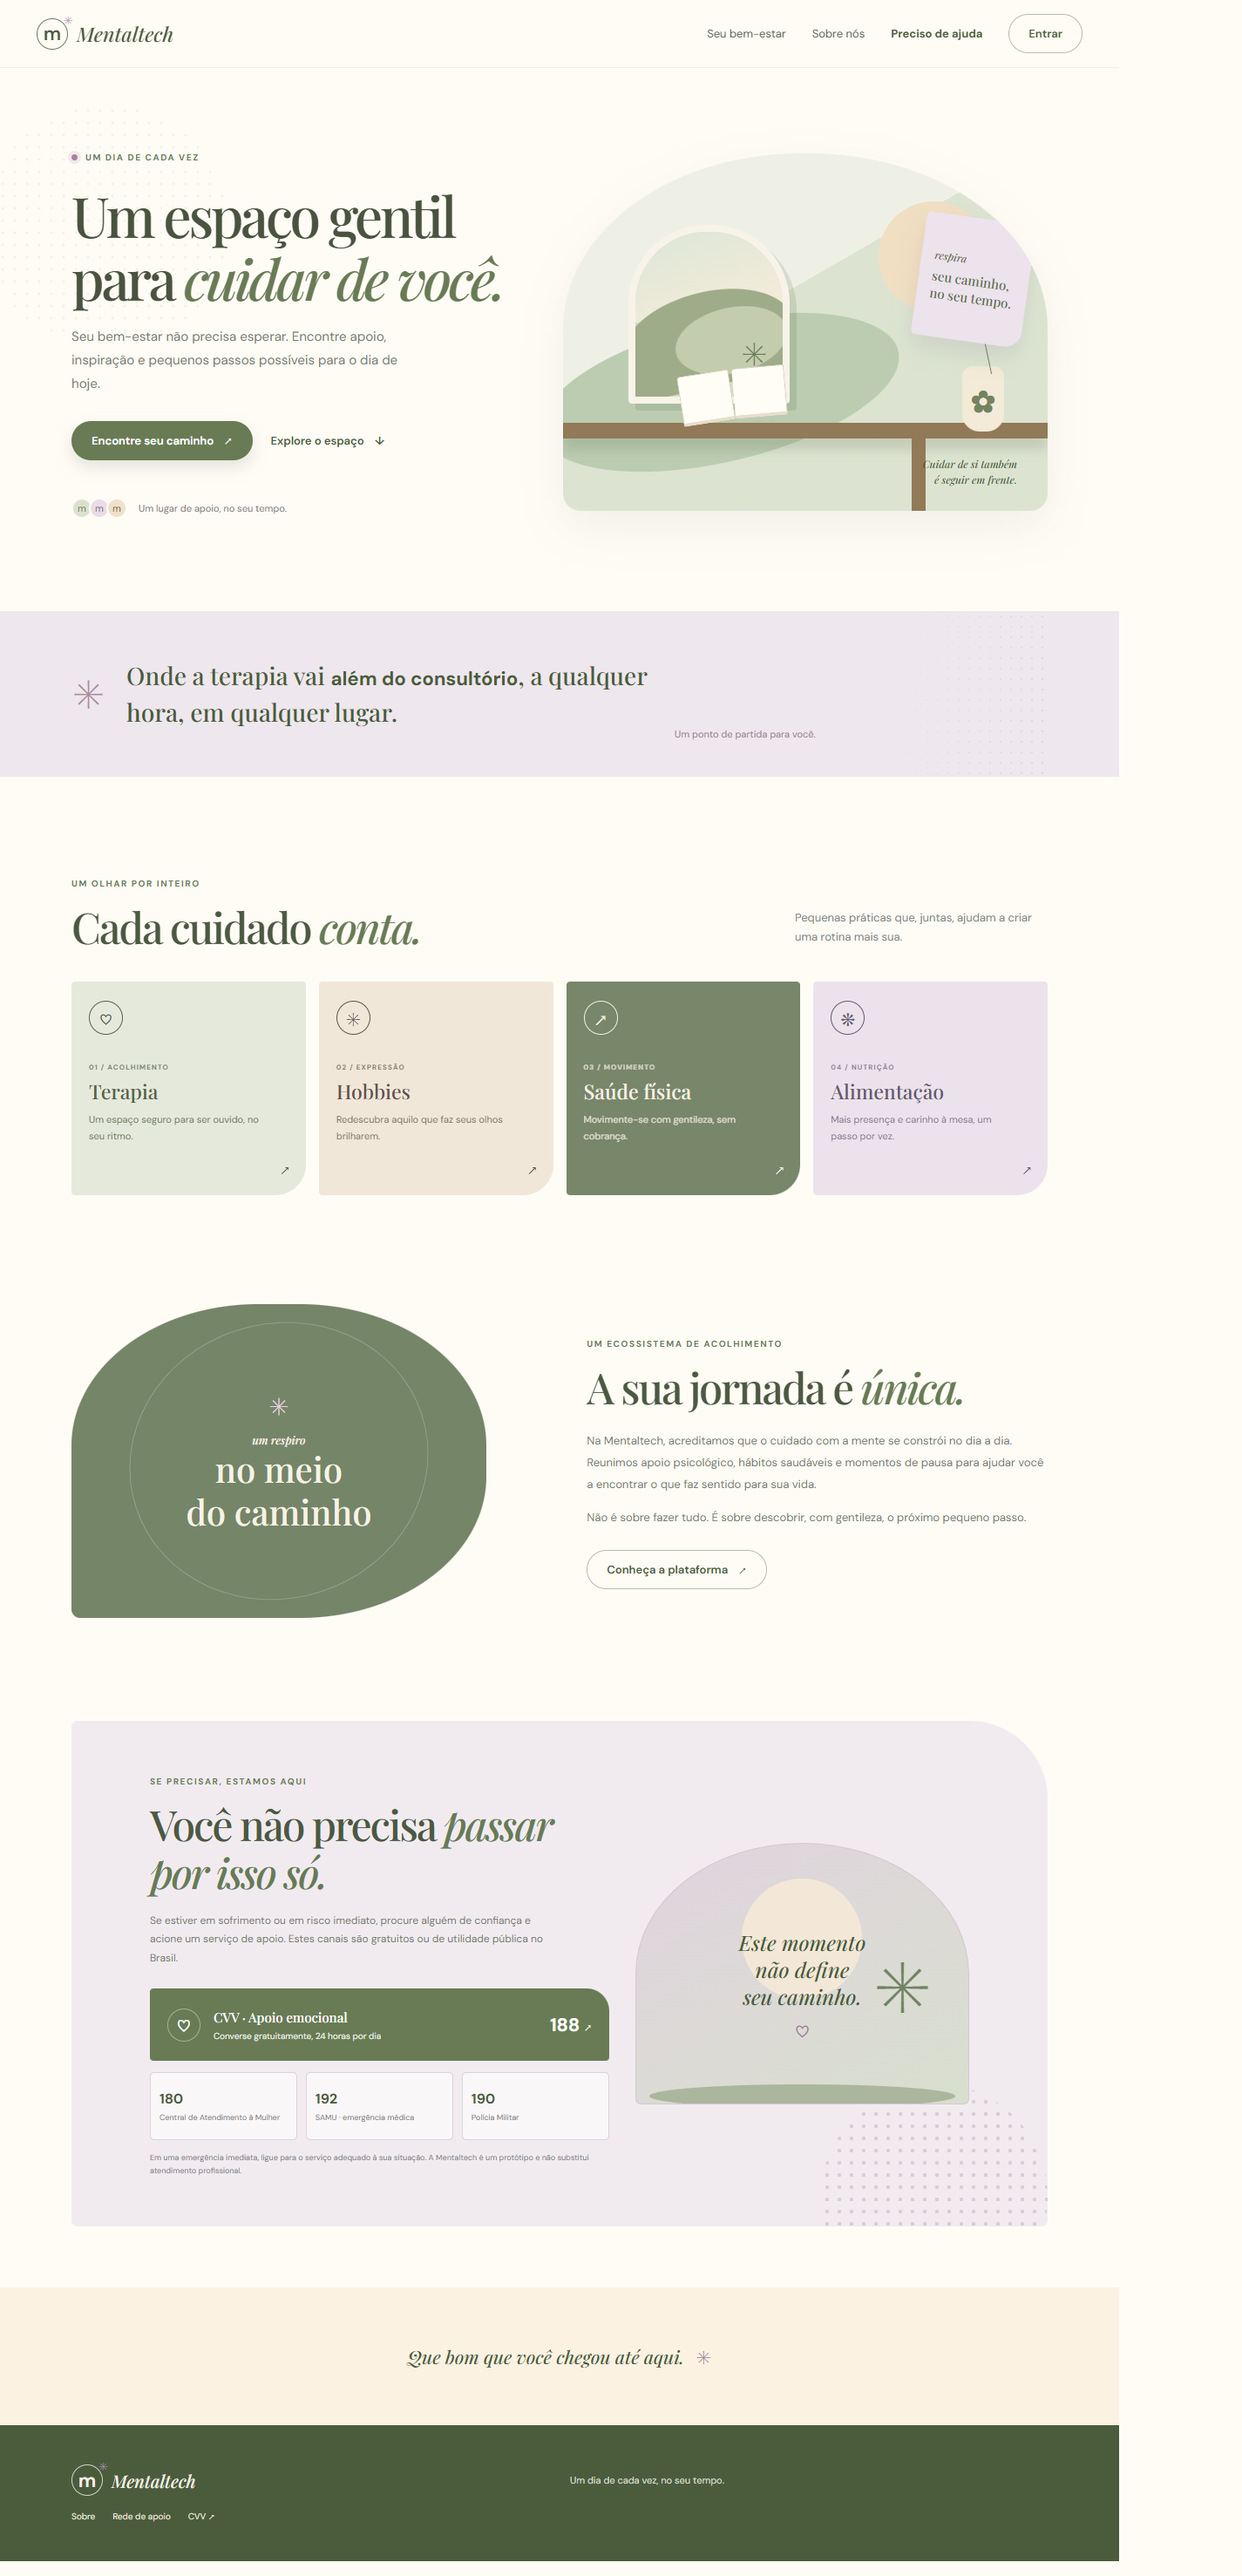
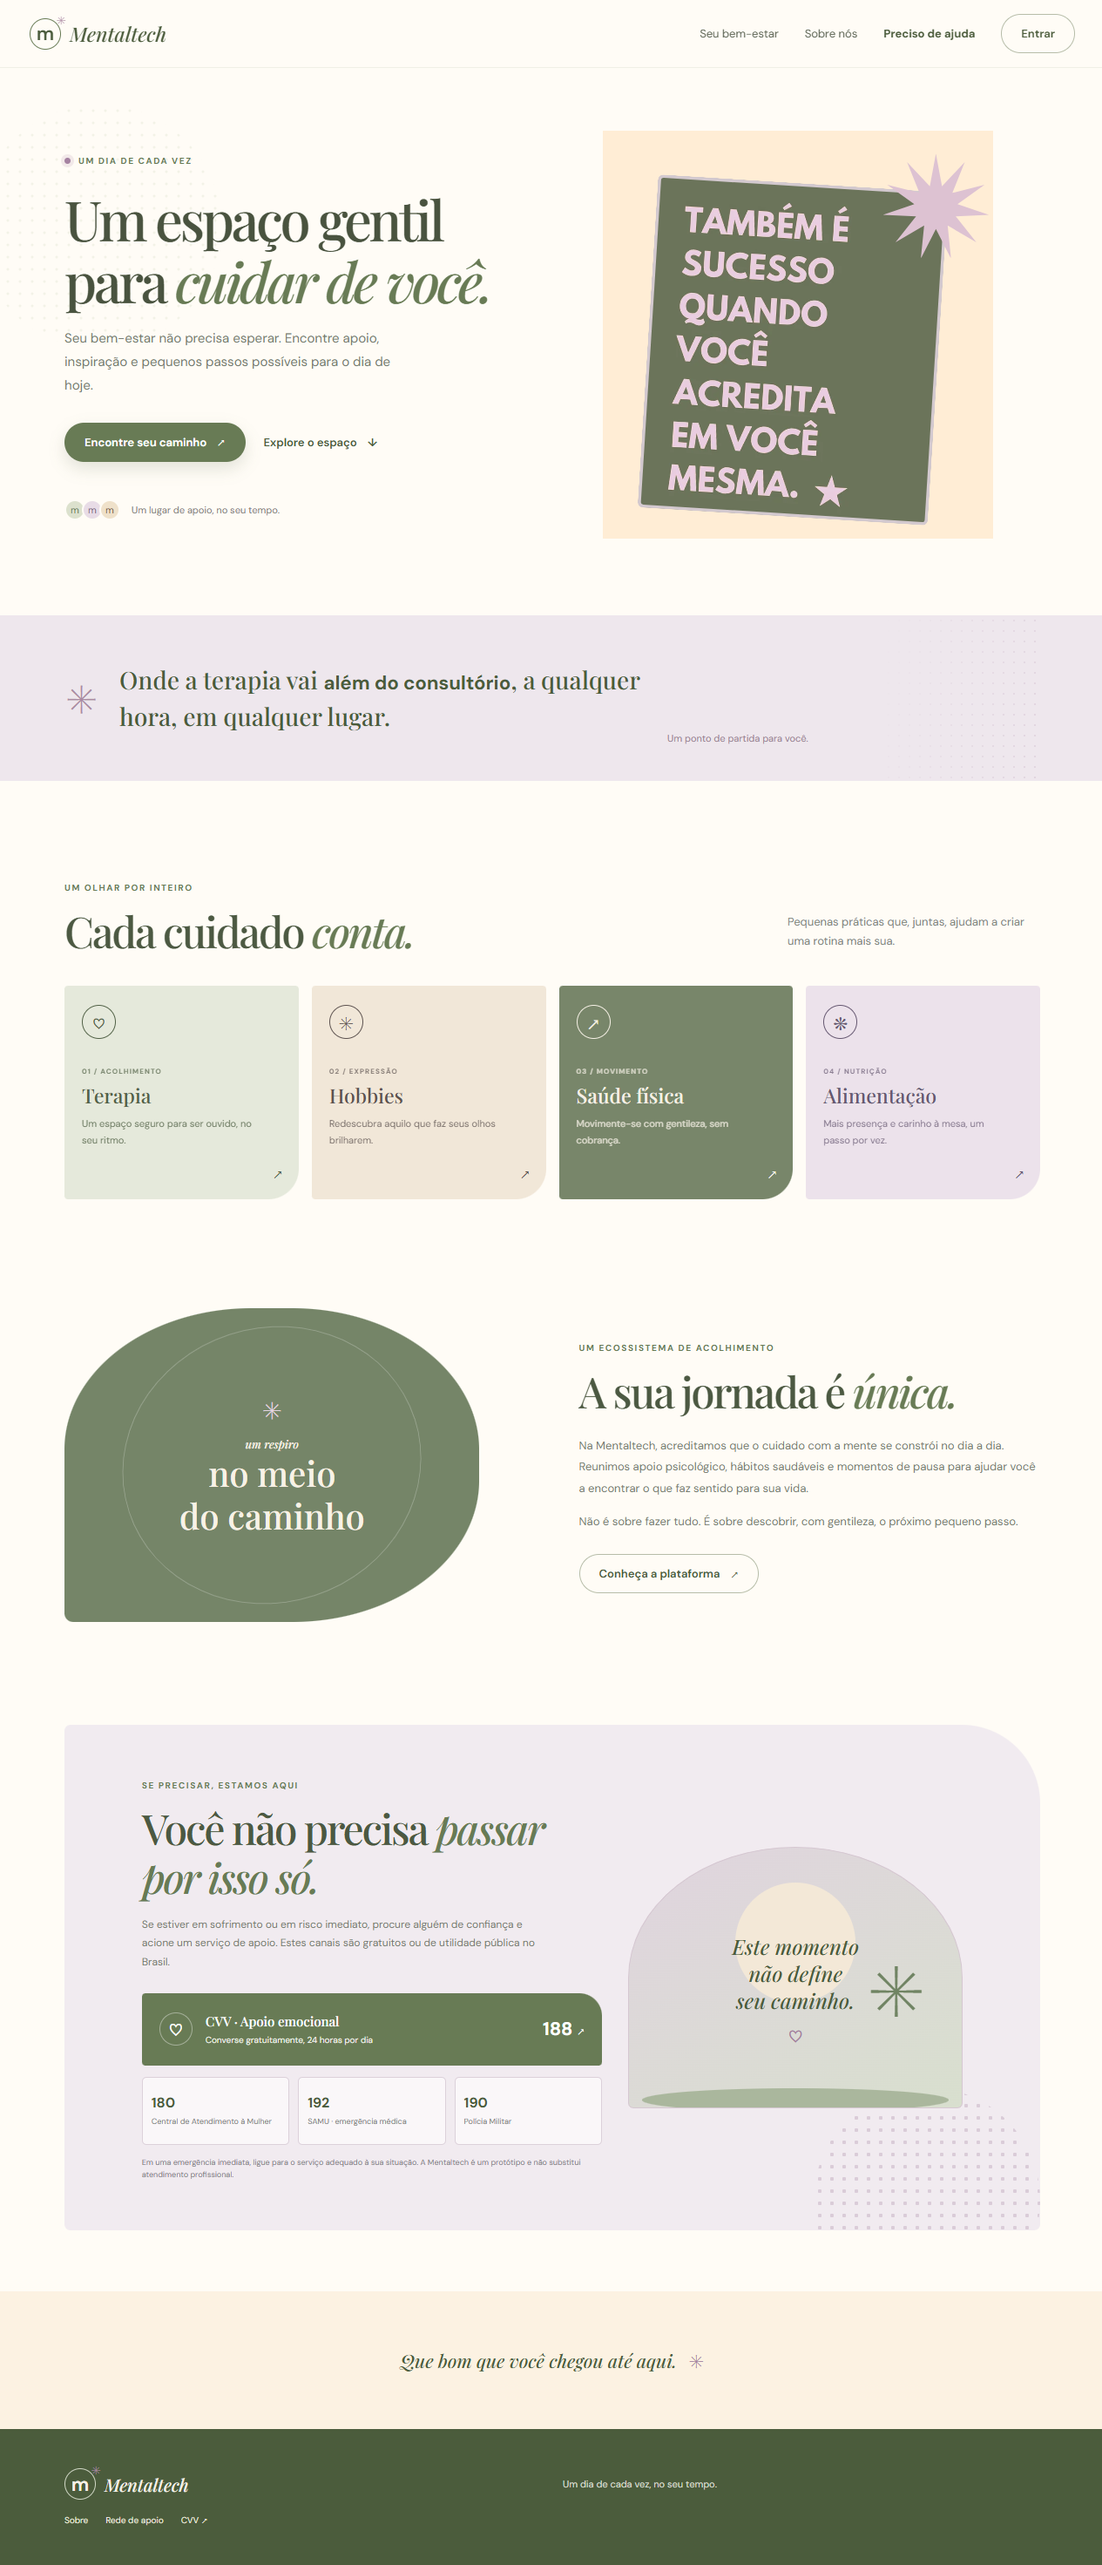
Replace home illustration with supplied artwork

diff --git a/styles.css b/styles.css
@@ -62,27 +62,8 @@ h1 em, h2 em { color: var(--olive); font-weight: 500; }
 .note-avatars i { display: grid; width: 24px; height: 24px; margin-left: -4px; place-items: center; border: 2px solid var(--paper); border-radius: 50%; color: var(--olive); background: var(--sage); font-size: 11px; font-style: normal; }
 .note-avatars i:nth-child(2) { color: #83697e; background: #e8dce6; }
 .note-avatars i:nth-child(3) { color: #776145; background: #efe1ca; }
-.hero-art { position: relative; min-height: 410px; overflow: hidden; border-radius: 49% 49% 20px 20px; background: linear-gradient(150deg, #eff0e5 0 42%, #dce4d1 42% 100%); box-shadow: 0 18px 50px #52614715; }
-.art-sun { position: absolute; top: 55px; right: 68px; width: 126px; height: 126px; border-radius: 50%; background: #f0dfc2; }
-.art-shadow { position: absolute; bottom: 56px; left: -30px; width: 420px; height: 160px; border-radius: 50%; background: #bbccb0; transform: rotate(-13deg); }
-.art-window { position: absolute; top: 82px; left: 75px; width: 185px; height: 205px; overflow: hidden; border: 8px solid #f7f3e8; border-radius: 90px 90px 4px 4px; background: #d3ddc9; box-shadow: 8px 8px 0 rgb(76 95 63 / 15%); }
-.window-sky { position: absolute; inset: 0 0 45%; background: linear-gradient(160deg, #dce6d7, #f8edda); }
-.window-hill { position: absolute; right: -14px; bottom: 12px; left: -16px; height: 108px; border-radius: 55% 52% 0 0; background: #9eac89; transform: rotate(-13deg); }
-.window-hill::after { position: absolute; top: 24px; left: 60px; width: 130px; height: 75px; border-radius: 50%; background: #c3ccad; content: ""; }
-.window-plant { position: absolute; right: 17px; bottom: 25px; color: #697d58; font-size: 36px; }
-.art-table { position: absolute; right: 0; bottom: 83px; left: 0; height: 18px; background: #927957; box-shadow: 0 12px 14px #4f584333; }
-.art-table::after { position: absolute; top: 17px; left: 72%; width: 16px; height: 97px; background: #927957; content: ""; }
-.art-book { position: absolute; bottom: 101px; left: 134px; display: flex; width: 120px; height: 62px; align-items: flex-start; transform: rotate(-9deg); }
-.art-book span { width: 50%; height: 58px; border: 1px solid #d5ccb8; border-bottom: 4px solid #e8decc; border-radius: 4px 2px 2px 2px; background: #fffdf6; }
-.art-book span + span { border-left: 0; transform: rotate(4deg); transform-origin: bottom left; }
-.art-vase { position: absolute; right: 50px; bottom: 91px; display: flex; width: 48px; height: 75px; align-items: flex-start; justify-content: center; padding-top: 15px; border-radius: 12px 12px 20px 20px; color: #73835f; background: #f3ead7; font-size: 35px; }
-.art-vase::before { position: absolute; top: -78px; width: 1px; height: 88px; background: #6f8260; content: ""; transform: rotate(-12deg); }
-.art-vase span { z-index: 1; }
-.art-note { position: absolute; top: 74px; right: 22px; display: flex; width: 126px; height: 142px; flex-direction: column; align-items: flex-start; justify-content: center; padding: 15px; border-radius: 5px 5px 19px 5px; color: #5e6f4f; background: #ece3ec; box-shadow: 0 14px 26px #6156761f; transform: rotate(8deg); }
-.art-note > span { font-family: var(--serif); font-size: 12px; font-style: italic; }
-.art-note strong { margin-top: 6px; font-family: var(--serif); font-size: 15px; font-weight: 500; line-height: 1.35; }
-.art-note i { position: absolute; top: -12px; right: -9px; color: #a582a1; font-size: 24px; font-style: normal; }
-.art-caption { position: absolute; right: 35px; bottom: 27px; color: var(--olive-dark); font-family: var(--serif); font-size: 12px; font-style: italic; line-height: 1.5; text-align: right; }
+.hero-art { width: min(100%, 448px); justify-self: center; }
+.hero-art img { display: block; width: 100%; height: auto; }
 .welcome-band { position: relative; background: var(--lavender); }
 .welcome-inner { position: relative; display: flex; min-height: 190px; align-items: center; gap: 24px; }
 .welcome-inner::after { position: absolute; right: 0; bottom: 0; width: 180px; height: 100%; background-image: radial-gradient(#b99cb5 1px, transparent 1px); background-position: 0 0; background-size: 12px 12px; content: ""; opacity: .25; mask-image: linear-gradient(100deg, transparent, #000); }
@@ -221,9 +202,7 @@ h1 em, h2 em { color: var(--olive); font-weight: 500; }
   .hero { min-height: 0; grid-template-columns: 1fr; gap: 32px; padding-block: 55px 58px; }
   .hero-copy { padding: 0; }
   .hero h1 { max-width: 540px; }
-  .hero-art { width: min(100%, 500px); min-height: 350px; justify-self: center; }
-  .art-window { left: 10%; }
-  .art-note { right: 6%; }
+  .hero-art { width: min(100%, 448px); }
   .welcome-inner { min-height: 160px; gap: 17px; }
   .welcome-caption { display: none; }
   .welcome-symbol { font-size: 34px; }
@@ -249,14 +228,6 @@ h1 em, h2 em { color: var(--olive); font-weight: 500; }
   .hero-actions .button-primary { padding-inline: 16px; font-size: 11px; }
   .hero-actions .button-text { font-size: 11px; }
   .hero-note { margin-top: 28px; }
-  .hero-art { min-height: 292px; }
-  .art-window { top: 54px; width: 145px; height: 173px; }
-  .art-note { top: 51px; width: 105px; height: 121px; }
-  .art-note strong { font-size: 13px; }
-  .art-vase { right: 23px; }
-  .art-table { bottom: 70px; }
-  .art-book { bottom: 86px; left: 23%; transform: scale(.8) rotate(-9deg); transform-origin: bottom left; }
-  .art-caption { right: 20px; bottom: 18px; font-size: 10px; }
   .welcome-inner { min-height: 130px; }
   .welcome-inner p { font-size: 18px; }
   .section-heading { align-items: flex-start; flex-direction: column; gap: 12px; }

diff --git a/index.html b/index.html
@@ -51,15 +51,8 @@
             <span>Um lugar de apoio, no seu tempo.</span>
           </div>
         </div>
-        <div class="hero-art" aria-label="Ilustração de um ambiente tranquilo para o autocuidado">
-          <div class="art-sun"></div>
-          <div class="art-shadow"></div>
-          <div class="art-window"><div class="window-sky"></div><div class="window-hill"></div><div class="window-plant">✳</div></div>
-          <div class="art-table"></div>
-          <div class="art-book"><span></span><span></span></div>
-          <div class="art-vase"><span>✿</span></div>
-          <div class="art-note"><span>respira</span><strong>seu caminho,<br>no seu tempo.</strong><i>✳</i></div>
-          <div class="art-caption">Cuidar de si também<br>é seguir em frente.</div>
+        <div class="hero-art">
+          <img src="assets/mensagem-inspiradora.png" alt="Cartaz: Também é sucesso quando você acredita em você mesma.">
         </div>
       </section>
 
